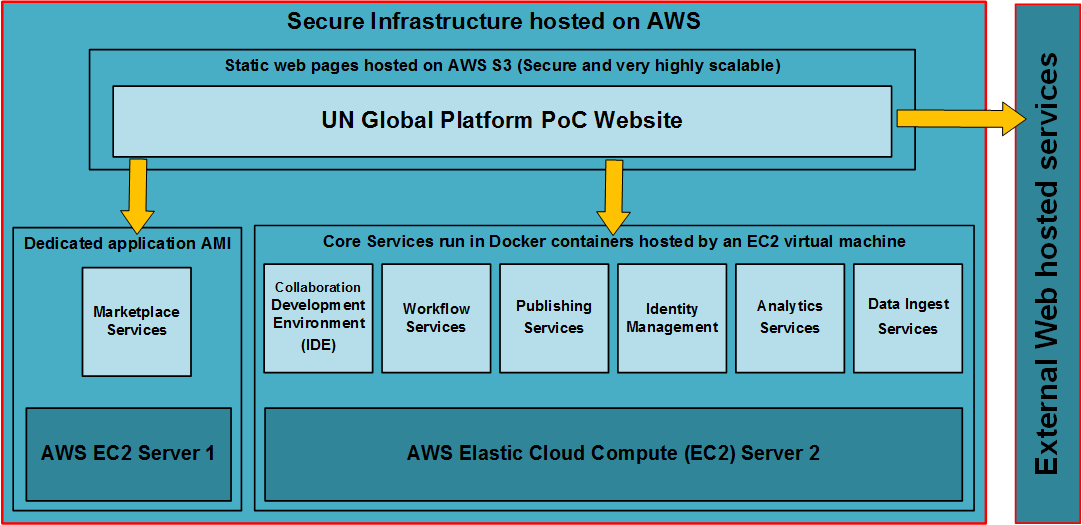
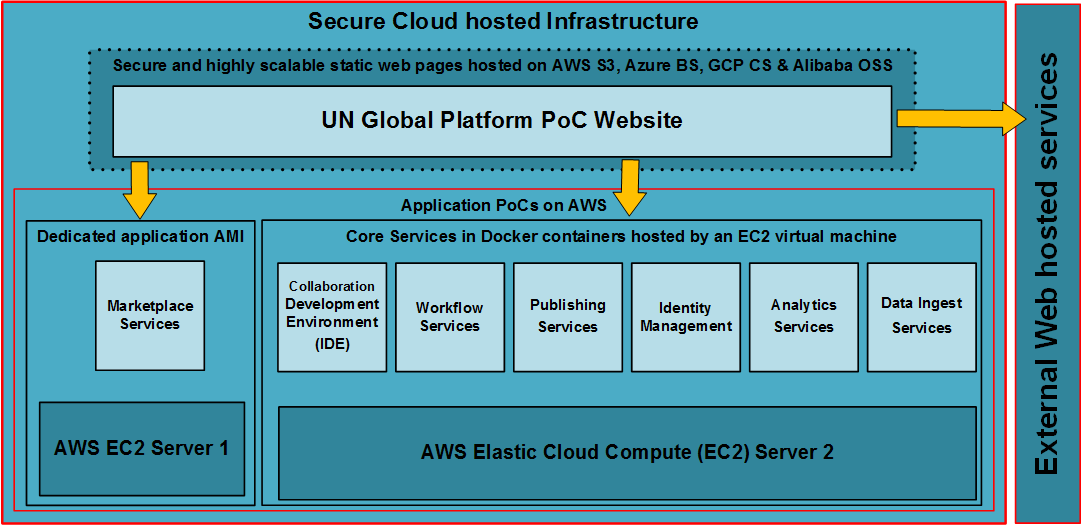
links to the 4 cloud hosts

diff --git a/index.html b/index.html
@@ -59,11 +59,13 @@
         <div class="jumbotron">
             <div class="container">
                 <h1 class="display-3">UN Global Platform</h1>
-                <p>This is the technology demonstration platform showing proof of concept examples of the identified core services.</p>
+               <p>&nbsp;To provide access to trusted data, methods, partners and learning, the platform needs to be supported by a number of key core technical services and it is the feasability of implementing these which this PoC is intended to demonstrate.</p>
                 <p></p>
-                <p>&nbsp;To provide access to trusted data, methods, partners and learning, the platform needs to be supported by a number of key core technical services and it is the feasability of implementing these which this PoC is intended to demonstrate.</p>
+                <p>This is the technology demonstration platform showing proof of concept examples of the identified core services running on either dedicated servers or Docker containers.</p>
                 <p></p>
-                <p><div width="50%">
+                <p>The web pages to access these services are being hosted on AWS, Azure, GCP and Alibaba all of which can be accessed via the architecture detail page. You can return to this home page by clicking on the Big Data logo in the navigation bar at the top of each page.</p>
+                <p></p> 
+                 <p><div width="50%">
[1 lines of base64/hex data omitted]
                         <a href="#"> </a> 
                     </div></p>

diff --git a/architecture.html b/architecture.html
@@ -76,7 +76,10 @@
                 <div class="col-md-4">
                     <h2>Static web site</h2> 
                     <p>These pages are hosted as static documents which can be a mixture of web pages and data files. They are served very quickly forming a very secure and highly scalable way of publishing information. Any number of documents can be published and they can be automatically uploaded from version controlled sources if required.</p> 
-                    <p></p>
+                    <p><a class="btn btn-secondary" href="https://dwm4ih6p26hu1.cloudfront.net/index.html" role="button">View AWS PoC&nbsp; »</a></p>
+                    <p><a class="btn btn-secondary" href="https://ungppocstatic.blob.core.windows.net/static/Git-PoC/index.html" role="button">View Azure PoC&nbsp; »</a></p>
+                    <p><a class="btn btn-secondary" href="https://storage.googleapis.com/ungppoc-static/Git-PoC/index.html " role="button">View GCP PoC&nbsp; »</a></p>
+                    <p><a class="btn btn-secondary" href="http://gppoc-ali-static.oss-eu-central-1.aliyuncs.com/index.html" role="button">View Alibaba PoC&nbsp; »</a></p>
                 </div>
                 <div class="col-md-4">
                     <h2>Dedicated VM</h2> 
